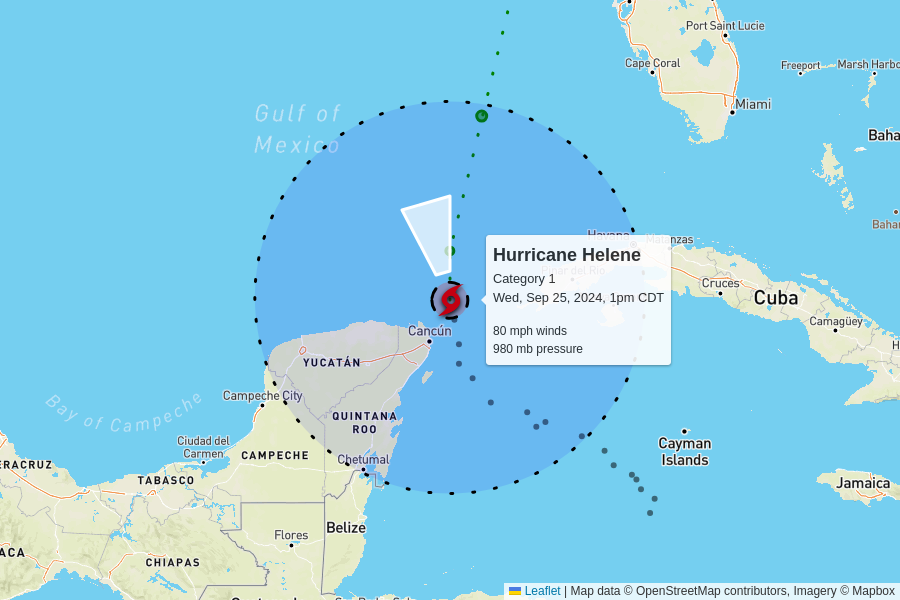
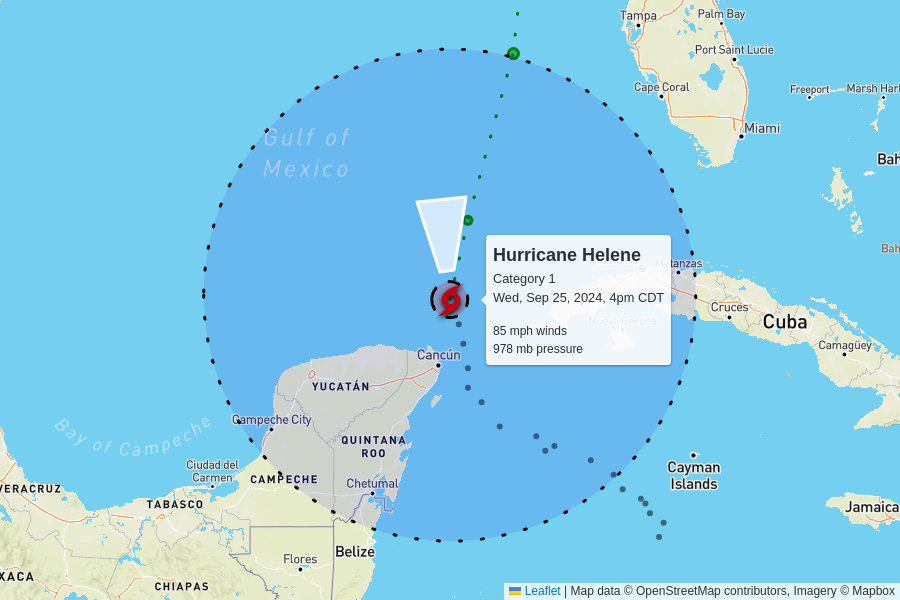
automatic update

diff --git a/docs/index.html b/docs/index.html
@@ -102,7 +102,7 @@
         <td colspan="6" class="storm category-1" >
           <h2>
             Hurricane Helene - Category 1
-            <p class="updated">last updated <span data-time>2024-09-25T18:00:00.000Z</span></p>
+            <p class="updated">last updated <span data-time>2024-09-25T21:00:00.000Z</span></p>
           </h2>
         </td>
       </tr>
@@ -117,12 +117,12 @@
       </tr>
       <tr>
         <td class="spacer"></td>
-        <td>80 mph<br>0 mph since last update</td>
-        <td>980 mb<br>+1 mb since last update</td>
+        <td>85 mph<br>+5 mph since last update</td>
+        <td>978 mb<br>-2 mb since last update</td>
         <td>
-          10 mph to the north-northwest
+          12 mph to the north
           <br/>
-          <span style="display: inline-block; font-size: 1.5em; transform: rotate(345deg);">↑</span>
+          <span style="display: inline-block; font-size: 1.5em; transform: rotate(355deg);">↑</span>
         </td>
         <td><a href="https://raw.githubusercontent.com/mgwalker/atlantic-hurricanes/main/data/csv/AL092024.csv">AL092024.csv</a></td>
         <td><a href="https://www.nhc.noaa.gov/archive/2024/HELENE.shtml?">NHC advisories</a></td>
